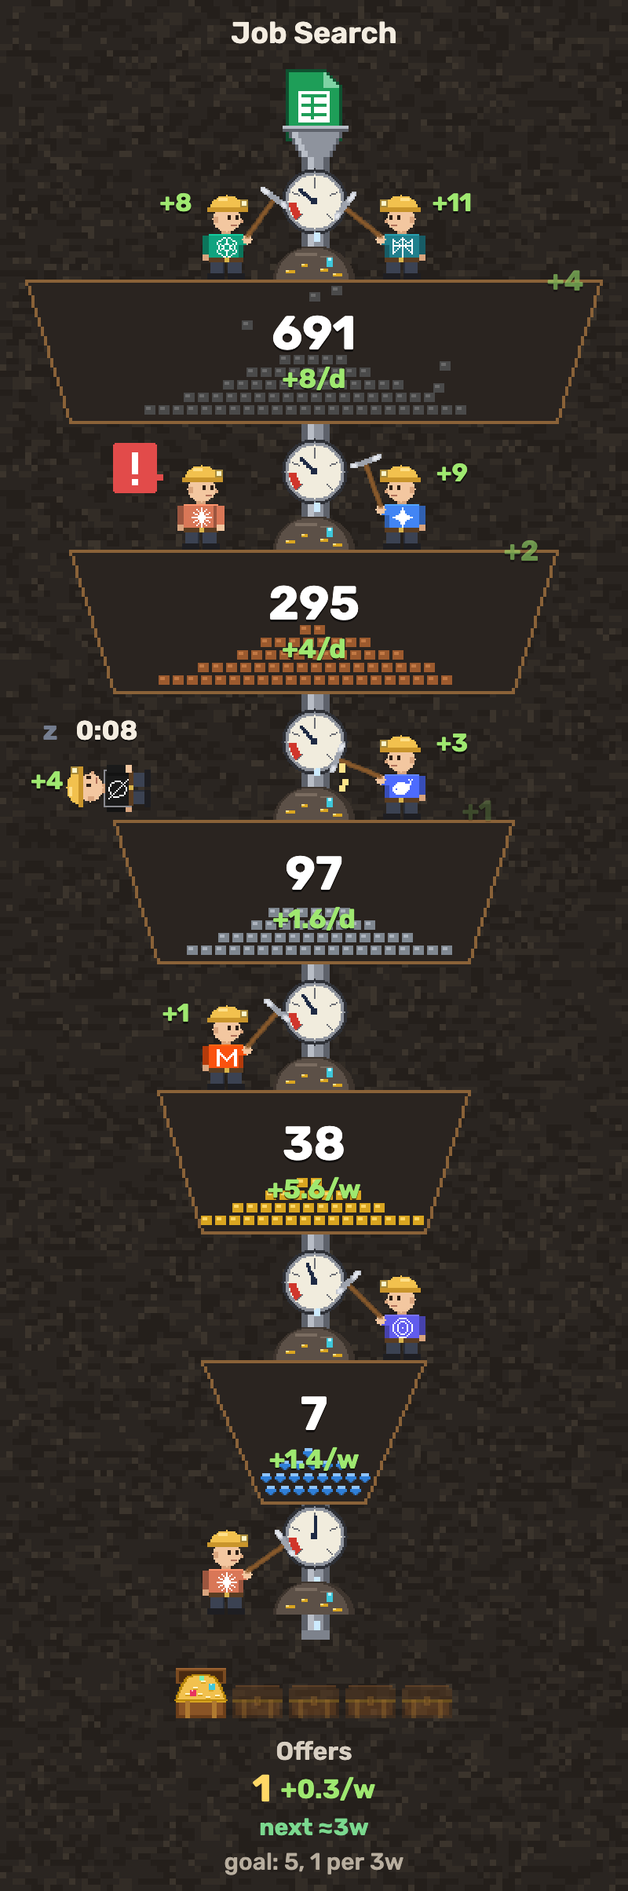
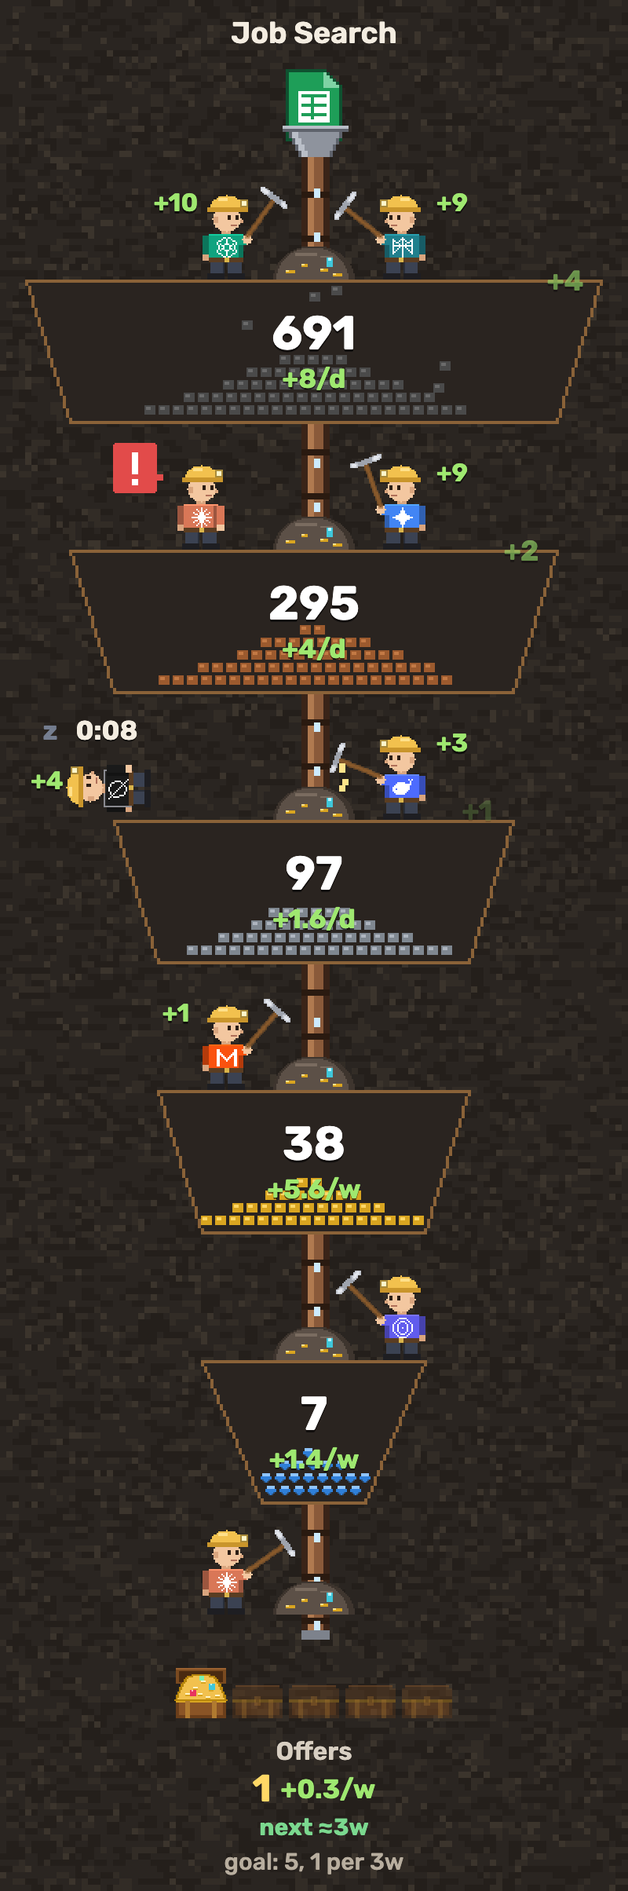
No gauges on the board, the landing page or in the docs; pipes in each theme's material (rusty iron, glass, hose, ribbon pink, cable with lights, brass); pictures redrawn

diff --git a/src/i18n.js b/src/i18n.js
@@ -6,9 +6,9 @@
 // Static pages mark text with data-i18n="key" (text), data-i18n-html="key" (text with links) and
 // data-i18n-attr="placeholder:key; title:key"; scripts call t(key, …args).
 
-import es from './lang/es.js?v=fc689838';
-import vi from './lang/vi.js?v=fc689838';
-import ja from './lang/ja.js?v=fc689838';
+import es from './lang/es.js?v=67d628d5';
+import vi from './lang/vi.js?v=67d628d5';
+import ja from './lang/ja.js?v=67d628d5';
 
 export const LANGS = { en: 'English', ru: 'Русский', es: 'Español', zh: '中文', ja: '日本語', th: 'ไทย', vi: 'Tiếng Việt' };
 export const SHORT = { en: 'EN', ru: 'RU', es: 'ES', zh: '中文', ja: 'JA', th: 'ไทย', vi: 'VI' };
@@ -80,7 +80,7 @@ const STRINGS = {
     'ทุกเป้าหมายคือกรวย: งาน คู่ชีวิต งานวิจัย ผู้ติดตาม เอเจนต์ของคุณขยับมันทีละขั้น เห็นการไหล ผลลัพธ์ถัดไป และใครกำลังรอคุณอยู่'),
   'home.demo': L('Open the live demo', 'Открыть живое демо', '打开实时演示', 'เปิดเดโมสด'),
   'home.connect': L('Connect your agents', 'Подключить агентов', '连接你的智能体', 'เชื่อมต่อเอเจนต์ของคุณ'),
-  'home.shotAlt': L('One goal funnel with labels: the sheet, tanks, a question, agents asleep and at work, a gauge, results and the prediction', 'Одна воронка цели с подписями: таблица, баки, вопрос, агенты спят и работают, манометр, результаты и прогноз', '一个带标注的目标漏斗：表格、储罐、问题、睡眠和工作中的智能体、仪表、成果和预测', 'กรวยเป้าหมายหนึ่งอันพร้อมคำอธิบาย: ตาราง ถัง คำถาม เอเจนต์ที่หลับและทำงาน มาตรวัด ผลลัพธ์ และการคาดการณ์'),
+  'home.shotAlt': L('One goal funnel with labels: the sheet, tanks, a question, agents asleep and at work, results and the prediction', 'Одна воронка цели с подписями: таблица, баки, вопрос, агенты спят и работают, результаты и прогноз', '一个带标注的目标漏斗：表格、储罐、问题、睡眠和工作中的智能体、成果和预测', 'กรวยเป้าหมายหนึ่งอันพร้อมคำอธิบาย: ตาราง ถัง คำถาม เอเจนต์ที่หลับและทำงาน ผลลัพธ์ และการคาดการณ์'),
   'home.p1h': L('Goals as funnels', 'Цели как воронки', '目标即漏斗', 'เป้าหมายคือกรวย'),
   'home.p1': L('Not tasks — stages. How much is at each step, how fast it flows, when the next result is due.', 'Не задачи, а этапы. Сколько на каждом шаге, как быстро движется, когда следующий результат.', '不是任务，而是阶段。每一步有多少、流动多快、下一个成果何时到来。', 'ไม่ใช่งาน แต่เป็นขั้นตอน แต่ละขั้นมีเท่าไร ไหลเร็วแค่ไหน และผลลัพธ์ถัดไปจะมาเมื่อไร'),
   'home.p2h': L('Your agents, at work', 'Ваши агенты за работой', '你的智能体正在工作', 'เอเจนต์ของคุณกำลังทำงาน'),
@@ -99,8 +99,6 @@ const STRINGS = {
   'guide.asleep': L('Resting until its next run; the timer counts down.', 'Отдыхает до следующего запуска; таймер отсчитывает время.', '休息到下次运行；计时器在倒数。', 'พักจนถึงรอบถัดไป ตัวจับเวลากำลังนับถอยหลัง'),
   'guide.work.h': L('Agent at work', 'Агент за работой', '工作中的智能体', 'เอเจนต์กำลังทำงาน'),
   'guide.work': L('+N is what its current run added.', '+N — сколько добавил текущий запуск.', '+N 是本次运行新增的数量。', '+N คือสิ่งที่รอบปัจจุบันเพิ่มเข้ามา'),
-  'guide.gauge.h': L('Gauge', 'Манометр', '仪表', 'มาตรวัด'),
-  'guide.gauge': L('On pace for the goal? Straight up is just in time; red on the left is far behind.', 'Успеваете к цели? Стрелка вверх — точно в срок, красное слева — сильно отстаёте.', '能按时达成目标吗？指针朝上表示刚好赶上，左侧红区表示严重落后。', 'ทันเป้าหมายไหม? เข็มชี้ขึ้นคือทันพอดี สีแดงทางซ้ายคือช้ามาก'),
   'guide.results.h': L('Results', 'Результаты', '成果', 'ผลลัพธ์'),
   'guide.results': L('One per result the goal needs; filled ones are done.', 'По одному на каждый нужный результат; заполненные — уже получены.', '目标需要的每个成果一个；已填满的表示已完成。', 'หนึ่งช่องต่อผลลัพธ์ที่เป้าหมายต้องการ ช่องที่เต็มคือได้แล้ว'),
   'guide.prediction.h': L('Prediction', 'Прогноз', '预测', 'การคาดการณ์'),

diff --git a/src/scene.js b/src/scene.js
@@ -1,7 +1,7 @@
-import { agentInfo, plural } from './data.js?v=fc689838';
-import { drawStanding, drawLying, drawPickaxe, drawShears, drawBeaker, drawBow, drawArrow, drawLaptop, drawStamp, drawBubble, BUBBLE_STEP, line, P, MINER_H } from './sprites.js?v=fc689838';
-import { themeOf } from './themes.js?v=fc689838';
-import { t as tr, lang, fmtDuration } from './i18n.js?v=fc689838';
+import { agentInfo, plural } from './data.js?v=67d628d5';
+import { drawStanding, drawLying, drawPickaxe, drawShears, drawBeaker, drawBow, drawArrow, drawLaptop, drawStamp, drawBubble, BUBBLE_STEP, line, P, MINER_H } from './sprites.js?v=67d628d5';
+import { themeOf } from './themes.js?v=67d628d5';
+import { t as tr, lang, fmtDuration } from './i18n.js?v=67d628d5';
 
 // Logical (pixel-art) layout of one funnel column. Funnels have 2-5 tanks with a mining zone above
 // each tank and one more below the last (the output zone, where results come out into flasks).
@@ -37,7 +37,6 @@ const outPlateTop = k => plateTop(k) - OUT_LIFT;
 // Below the last tank there is no tank to sit on: gauge and plate move up together (the same gap
 // between them as everywhere) so the pipe runs on past the plate to where results drip out.
 const OUT_LIFT = 5;
-const gaugeY = (k, out) => zoneTop(k) + 4 + GAUGE_R + 2 - (out ? OUT_LIFT : 0);
 export const DAY_SECONDS = 2;
 const PER_ROW = 10;  // result items per row under a funnel, the same for every theme
 // As on the page: Vietnamese needs Be Vietnam Pro (Rubik has no Vietnamese letters), Japanese takes
@@ -164,14 +163,13 @@ export class Scene {
         // No room around a zone: agents work in the open, on top of the tank below.
         const y = zoneTop(k);
         // The pipe runs from the tank above (or the hopper on top) down to the tank below.
-        this.pipe(c, cx, k < 0 ? y + 4 : y, y + ZH);
-        // On top: a small funnel at the very top of the column and a short pipe down to the gauge.
+        this.pipe(c, cx, k < 0 ? y + 4 : y, y + ZH, theme);
+        // On top: a small funnel at the very top of the column and a short pipe down from it.
         if (k < 0) {
-          this.pipe(c, cx, y + 1, y + 4);
+          this.pipe(c, cx, y + 1, y + 4, theme);
           if (f.source_url) this.sheets(c, cx, y - 26);
           this.hopper(c, cx, y - 8, y + 1);
         }
-        gaugeRim(c, cx, gaugeY(k, k === n - 1));
       }
       f.stages.forEach((s, j) => {
         // A thin outline: full top and bottom rows, one pixel down each side; inside, the theme's
@@ -233,10 +231,13 @@ export class Scene {
     return { x: cx - 12, y, w: 26, h: 34, type: 'source', url: this.funnels[fi].source_url };
   }
 
-  pipe(c, cx, y0, y1) {
-    c.fillStyle = '#5E626B'; c.fillRect(cx - 4, y0, 9, y1 - y0);
-    c.fillStyle = '#8E939D'; c.fillRect(cx - 2, y0, 5, y1 - y0);
-    c.fillStyle = '#B9BEC7'; c.fillRect(cx - 2, y0, 2, y1 - y0);
+  // The pipe in the theme's own material (iron, glass, hose, cable…), with its joints or lights.
+  pipe(c, cx, y0, y1, theme) {
+    const [edge, body, shine, band] = theme?.pipe || ['#5E626B', '#8E939D', '#B9BEC7', null];
+    c.fillStyle = edge; c.fillRect(cx - 4, y0, 9, y1 - y0);
+    c.fillStyle = body; c.fillRect(cx - 2, y0, 5, y1 - y0);
+    c.fillStyle = shine; c.fillRect(cx - 2, y0, 2, y1 - y0);
+    if (band) for (let y = y0 + 8; y < y1 - 3; y += 14) { c.fillStyle = band; c.fillRect(cx - 4, y, 9, theme.bandH || 2); }
   }
 
   update(dt) {
@@ -307,10 +308,9 @@ export class Scene {
       if (f.source_url) this.hits.push(this.sourceHit(fi));
       const cx = this.cx(fi), n = f.stages.length, theme = themeOf(f);
       for (let k = -1; k < n; k++) {
-        const y = zoneTop(k), fl = f.flows[k + 1], gy = gaugeY(k, k === n - 1);
+        const y = zoneTop(k), fl = f.flows[k + 1];
         // Below the last tank the drops run a little past the pipe's end, dripping out of it.
         this.drops(c, cx, y + 4, y + ZH + (k === n - 1 ? 9 : 0), fl, fi * 3 + k);
-        gaugeFace(c, cx, gy, project(f).zones[k + 1], Math.sin(t * 3 + fi + k) * 0.015);
         // The plate under each gauge is what the agents work on; only the output zone's has text
         // on it: when the next result is due.
         theme.plate(c, cx - 13, k === n - 1 ? outPlateTop(k) : plateTop(k), 26, PLATE_H);

diff --git a/src/themes.js b/src/themes.js
@@ -486,12 +486,12 @@ const pieceMoney = {
 };
 
 export const THEMES = {
-  mine: { piece: pieceMine, tankBg: '#2A2420', emptyAlpha: 0.3, backdrop: backMine, frame: '#8A6238', zone: zoneMine, tank: tankMine, plate: plateMine, result: resultTreasure, outfit: 'helmet', tool: 'pickaxe', spark: '#FFE38A', accent: '#FFD866' },
-  lab: { tankBg: '#122233', emptyAlpha: 0.3, backdrop: backLab, frame: '#9FD3FF', zone: zoneLab, tank: tankLab, plate: plateLab, result: resultFlask, outfit: 'goggles', tool: 'beaker', spark: '#B585F2', accent: '#C4A3F5' },
-  garden: { piece: pieceGarden, tankBg: '#16240F', emptyAlpha: 0.3, backdrop: backGarden, frame: '#7A5232', tank: tankGarden, plate: plateGarden, result: resultPot, outfit: 'straw', tool: 'shears', spark: '#8FD46A', accent: '#F28AB8' },
-  love: { piece: pieceLove, tankBg: '#3A1A30', backdrop: backLove, frame: '#F28AB8', zone: zoneLove, tank: tankLove, plate: plateLove, result: resultHeart, outfit: 'wings', tool: 'bow', spark: '#F28AB8', accent: '#F28AB8' },
-  code: { piece: pieceCode, tankBg: '#06100A', emptyAlpha: 0.3, backdrop: backCode, frame: '#3CF27A', zone: zoneCode, tank: tankCode, plate: plateCode, result: resultChip, outfit: 'hoodie', tool: 'laptop', spark: '#3CF27A', accent: '#7CF0B0' },
-  money: { piece: pieceMoney, tankBg: '#14201A', backdrop: backMoney, frame: '#D9A520', zone: zoneMoney, tank: tankMoney, plate: plateMoney, result: resultBag, outfit: 'suit', tool: 'stamp', spark: '#FFD866', accent: '#9FE870' },
+  mine: { pipe: ['#3A2418', '#8A5A3A', '#B07A50', '#2A1A10'], piece: pieceMine, tankBg: '#2A2420', emptyAlpha: 0.3, backdrop: backMine, frame: '#8A6238', zone: zoneMine, tank: tankMine, plate: plateMine, result: resultTreasure, outfit: 'helmet', tool: 'pickaxe', spark: '#FFE38A', accent: '#FFD866' },
+  lab: { pipe: ['#7FB8D8', '#1E3A50', '#E8F6FF', null], tankBg: '#122233', emptyAlpha: 0.3, backdrop: backLab, frame: '#9FD3FF', zone: zoneLab, tank: tankLab, plate: plateLab, result: resultFlask, outfit: 'goggles', tool: 'beaker', spark: '#B585F2', accent: '#C4A3F5' },
+  garden: { pipe: ['#2E5A22', '#4E8A3A', '#7CC05A', '#24481A'], piece: pieceGarden, tankBg: '#16240F', emptyAlpha: 0.3, backdrop: backGarden, frame: '#7A5232', tank: tankGarden, plate: plateGarden, result: resultPot, outfit: 'straw', tool: 'shears', spark: '#8FD46A', accent: '#F28AB8' },
+  love: { pipe: ['#8A2A55', '#E06A9A', '#F7B8D0', '#D9A520'], piece: pieceLove, tankBg: '#3A1A30', backdrop: backLove, frame: '#F28AB8', zone: zoneLove, tank: tankLove, plate: plateLove, result: resultHeart, outfit: 'wings', tool: 'bow', spark: '#F28AB8', accent: '#F28AB8' },
+  code: { pipe: ['#0A140E', '#1E2A22', '#3A4A3E', '#3CF27A'], bandH: 1, piece: pieceCode, tankBg: '#06100A', emptyAlpha: 0.3, backdrop: backCode, frame: '#3CF27A', zone: zoneCode, tank: tankCode, plate: plateCode, result: resultChip, outfit: 'hoodie', tool: 'laptop', spark: '#3CF27A', accent: '#7CF0B0' },
+  money: { pipe: ['#7A5A10', '#C8961E', '#F2D068', '#5A400A'], piece: pieceMoney, tankBg: '#14201A', backdrop: backMoney, frame: '#D9A520', zone: zoneMoney, tank: tankMoney, plate: plateMoney, result: resultBag, outfit: 'suit', tool: 'stamp', spark: '#FFD866', accent: '#9FE870' },
 };
 
 export const themeOf = f => THEMES[f.theme] || THEMES.mine;

diff --git a/tools/render-docs.js b/tools/render-docs.js
@@ -1,10 +1,10 @@
 // Renders the README pictures (agents sheet, theme samples, the board) and the link preview card from the same drawing code as
 // the dashboard and saves them through serve.py: open http://localhost:5173/tools/render-docs.html
 // (always in English: the page adds ?lang=en to itself).
-import { AGENTS, FUNNELS } from '../src/data.js?v=fc689838';
-import { Scene, CW, H } from '../src/scene.js?v=fc689838';
-import { THEMES } from '../src/themes.js?v=fc689838';
-import { drawStanding, drawPickaxe, drawShears, drawBeaker, drawBow, drawArrow, drawLaptop, drawStamp } from '../src/sprites.js?v=fc689838';
+import { AGENTS, FUNNELS } from '../src/data.js?v=67d628d5';
+import { Scene, CW, H } from '../src/scene.js?v=67d628d5';
+import { THEMES } from '../src/themes.js?v=67d628d5';
+import { drawStanding, drawPickaxe, drawShears, drawBeaker, drawBow, drawArrow, drawLaptop, drawStamp } from '../src/sprites.js?v=67d628d5';
 
 const FONT = 'Rubik, system-ui, sans-serif';
 
@@ -53,8 +53,11 @@ function themesSheet() {
     const th = THEMES[name], ox = (i % cols) * W, oy = Math.floor(i / cols) * Hh, r = rng(7 + i);
     g.setTransform(K, 0, 0, K, ox * K, oy * K);
     th.backdrop(g, 0, W, Hh, r);
-    g.fillStyle = '#5E626B'; g.fillRect(86, 6, 9, 48);
-    g.fillStyle = '#8E939D'; g.fillRect(88, 6, 5, 48);
+    const [pe, pb, ps, pband] = th.pipe;
+    g.fillStyle = pe; g.fillRect(86, 6, 9, 48);
+    g.fillStyle = pb; g.fillRect(88, 6, 5, 48);
+    g.fillStyle = ps; g.fillRect(88, 6, 2, 48);
+    if (pband) for (let y = 14; y < 51; y += 14) { g.fillStyle = pband; g.fillRect(86, y, 9, th.bandH || 2); }
     th.plate(g, 77, 43, 26, 11);
     const id = agentsFor[i % agentsFor.length], ax = 57, ay = 26, hx = ax + 16.5, hy = ay + 15;
     drawStanding(g, ax, ay, id, AGENTS[id].color, -1, false, true, th.outfit);
@@ -190,7 +193,7 @@ function funnelGuide({ labels = true } = {}) {
   const s0 = stage(0), last = stage(n - 1);
   const ask = agent('claude', 'ask'), sleep = scene.spot(agent('grok', 'sleep'), 'rest'), work = scene.spot(agent('mistral', 'work'), 'work');
   const src0 = scene.hits.find(h => h.type === 'source');
-  const gauge = stage(3), resultsY = last.y + last.h + 40 + 9;
+  const resultsY = last.y + last.h + 40 + 9;
   // Each arrow ends on the left edge of what it explains.
   const notes = [
     [P(src0.x + 3, src0.y + 14), 'Sheet', 'The table where the agents keep track of everything.'],
@@ -198,7 +201,6 @@ function funnelGuide({ labels = true } = {}) {
     [P(ask.bubble.x, ask.bubble.y + 11), 'Question', 'An agent waits for your answer. Click it to reply.'],
     [P(sleep.x - 1, sleep.y + 1), 'Asleep', 'Resting until its next run; the timer counts down.'],
     [P(work.x + 1, work.y + 20), 'Agent at work', '+N is what its current run added.'],
-    [P(cx - 9, gauge.y + gauge.h + 15), 'Gauge', 'On pace for the goal? Straight up is just in time; red on the left is far behind.'],
     [P(cx - 45, resultsY + 8), 'Results', 'One per result the goal needs; filled ones are done.'],
     [P(cx - 23, resultsY + 54), 'Prediction', 'When the next result is due at the current pace.'],
   ];

diff --git a/supabase/functions/mcp/index.ts b/supabase/functions/mcp/index.ts
@@ -178,8 +178,8 @@ function server(db: Db, caller: Caller) {
     title: 'Report counts',
     description: 'Counts after your work, cumulative: for each stage, how many items have ever reached it (an item that moved on to the next stage still counts here), and optionally the results so far. ' +
       'The dashboard takes the conversion between stages from these counts (next stage ÷ this one; 30% while one of them is 0), so keep them cumulative. ' +
-      'The dashboard computes flows, tank fill and gauges from these reports (automatic). Optionally set them yourself (manual): ' +
-      'fill_percent and flow_per_day per stage, pace per zone; null switches that one back to automatic.',
+      'The dashboard computes flows, tank fill and the pace of the results from these reports (automatic). Optionally set them yourself (manual): ' +
+      'fill_percent and flow_per_day per stage, pace for the output zone; null switches that one back to automatic.',
     inputSchema: req({
       funnel_id: funnelId,
       counts: z.record(z.string(), z.number().int().nonnegative()).default({}).describe('{ stage_key: count }, cumulative: every item that ever reached the stage'),
@@ -187,7 +187,7 @@ function server(db: Db, caller: Caller) {
       fill_percent: z.record(z.string(), z.number().min(0).max(100).nullable()).optional()
         .describe('Manual tank fill, { stage_key: 0-100 }: how much of what this stage needs for the whole goal is there. null = automatic'),
       pace: z.record(z.string(), z.number().min(0).max(1000).nullable()).optional()
-        .describe('Manual gauge, { zone: pace } with zones as in set_agent_state ("0" above the first stage … "n" below the last). Pace against the goal: 1 = just in time (red mark), 0.5 = half the pace needed, 2 = twice. null = automatic'),
+        .describe('Manual pace of the results against the goal, { zone: pace } with zones as in set_agent_state; only the output zone ("n", below the last stage) is shown, as the colour of the next-result line. 1 = just in time, 0.5 = half the pace needed, 2 = twice. null = automatic'),
       flow_per_day: z.record(z.string(), z.number().min(0).max(1e9).nullable()).optional()
         .describe('Manual flow, the "+N/d" written on a tank: { stage_key: items added to that stage per day }, and "results" for results per day. Give it when you know the real daily rate better than the count history shows (e.g. right after you start reporting). null = automatic: the average daily growth over the last 7 days of your count reports'),
       source_url: z.string().url().regex(/^https?:\/\//).nullable().optional()

diff --git a/index.html b/index.html
@@ -23,7 +23,7 @@
   <link rel="preconnect" href="https://fonts.googleapis.com">
   <link rel="preconnect" href="https://fonts.gstatic.com" crossorigin>
   <link href="https://fonts.googleapis.com/css2?family=Rubik:wght@400;500;600;700&family=Noto+Sans+SC:wght@400;500;700&family=Noto+Sans+Thai:wght@400;500;700&family=Be+Vietnam+Pro:wght@400;500;600;700&family=Noto+Sans+JP:wght@400;500;700&display=swap" rel="stylesheet">
-  <link rel="stylesheet" href="site.css?v=fc689838">
+  <link rel="stylesheet" href="site.css?v=67d628d5">
 </head>
 <body>
   <div class="wrap">
@@ -55,7 +55,6 @@
         <div class="note" style="--x:0.18;--y:0.252"><b data-i18n="guide.question.h">Question</b><span data-i18n="guide.question">An agent waits for your answer. Click it to reply.</span></div>
         <div class="note" style="--x:0.095;--y:0.402"><b data-i18n="guide.asleep.h">Asleep</b><span data-i18n="guide.asleep">Resting until its next run; the timer counts down.</span></div>
         <div class="note" style="--x:0.315;--y:0.563"><b data-i18n="guide.work.h">Agent at work</b><span data-i18n="guide.work">+N is what its current run added.</span></div>
-        <div class="note" style="--x:0.455;--y:0.678"><b data-i18n="guide.gauge.h">Gauge</b><span data-i18n="guide.gauge">On pace for the goal? Straight up is just in time; red on the left is far behind.</span></div>
         <div class="note" style="--x:0.275;--y:0.89"><b data-i18n="guide.results.h">Results</b><span data-i18n="guide.results">One per result the goal needs; filled ones are done.</span></div>
         <div class="note" style="--x:0.385;--y:0.967"><b data-i18n="guide.prediction.h">Prediction</b><span data-i18n="guide.prediction">When the next result is due at the current pace.</span></div>
       </div>
@@ -81,6 +80,6 @@
       <span><a href="deck/" target="_blank" rel="noopener" data-i18n="footer.deck">Pitch deck</a> · <a href="privacy/" data-i18n="footer.privacy">Privacy</a> · <a href="contact/" data-i18n="footer.contact">Contact</a></span>
     </footer>
   </div>
-  <script type="module" src="src/nav.js?v=fc689838"></script>
+  <script type="module" src="src/nav.js?v=67d628d5"></script>
 </body>
 </html>

diff --git a/app/index.html b/app/index.html
@@ -12,7 +12,7 @@
   <link rel="preconnect" href="https://fonts.googleapis.com">
   <link rel="preconnect" href="https://fonts.gstatic.com" crossorigin>
   <link href="https://fonts.googleapis.com/css2?family=Rubik:wght@400;500;600;700&family=Noto+Sans+SC:wght@400;500;700&family=Noto+Sans+Thai:wght@400;500;700&family=Be+Vietnam+Pro:wght@400;500;600;700&family=Noto+Sans+JP:wght@400;500;700&display=swap" rel="stylesheet">
-  <link rel="stylesheet" href="../dashboard.css?v=fc689838">
+  <link rel="stylesheet" href="../dashboard.css?v=67d628d5">
 </head>
 <body>
   <nav class="sitebar">
@@ -38,11 +38,11 @@
   <div id="pop" hidden></div>
 
   <script type="module">
-    import { supabase } from '../src/auth.js?v=fc689838';
-    import { setUpConnect } from '../src/connect.js?v=fc689838';
-    import { loadFunnels, answer, watch, runs } from '../src/live.js?v=fc689838';
-    import { mountDashboard } from '../src/dashboard.js?v=fc689838';
-    import { t, fmtDuration } from '../src/i18n.js?v=fc689838';
+    import { supabase } from '../src/auth.js?v=67d628d5';
+    import { setUpConnect } from '../src/connect.js?v=67d628d5';
+    import { loadFunnels, answer, watch, runs } from '../src/live.js?v=67d628d5';
+    import { mountDashboard } from '../src/dashboard.js?v=67d628d5';
+    import { t, fmtDuration } from '../src/i18n.js?v=67d628d5';
 
     // Coming back from an email link, supabase-js reads the session from the URL.
     const { data: { session } } = await supabase.auth.getSession();
@@ -92,6 +92,6 @@
       document.addEventListener('focusout', () => { if (pending) refresh(); });
     }
   </script>
-  <script type="module" src="../src/nav.js?v=fc689838"></script>
+  <script type="module" src="../src/nav.js?v=67d628d5"></script>
 </body>
 </html>

diff --git a/src/lang/vi.js b/src/lang/vi.js
@@ -19,7 +19,7 @@ export default {
   'home.lead': 'Mỗi mục tiêu là một phễu: một công việc, một người bạn đời, một bài báo, một lượng khán giả. Các tác tử đẩy nó đi từng giai đoạn. Bạn thấy dòng chảy, kết quả tiếp theo và ai đang chờ bạn trả lời.',
   'home.demo': 'Mở bản demo trực tiếp',
   'home.connect': 'Kết nối tác tử của bạn',
-  'home.shotAlt': 'Một phễu mục tiêu có chú thích: bảng tính, các bể, câu hỏi, tác tử đang ngủ và đang làm, đồng hồ đo, kết quả và dự báo',
+  'home.shotAlt': 'Một phễu mục tiêu có chú thích: bảng tính, các bể, câu hỏi, tác tử đang ngủ và đang làm, kết quả và dự báo',
   'home.p1h': 'Mục tiêu là phễu',
   'home.p1': 'Không phải nhiệm vụ mà là giai đoạn. Mỗi bước có bao nhiêu, chảy nhanh thế nào, khi nào có kết quả tiếp theo.',
   'home.p2h': 'Tác tử của bạn đang làm việc',
@@ -37,8 +37,6 @@ export default {
   'guide.asleep': 'Nghỉ đến lần chạy tiếp theo; đồng hồ đang đếm ngược.',
   'guide.work.h': 'Tác tử đang làm việc',
   'guide.work': '+N là số lần chạy hiện tại đã thêm.',
-  'guide.gauge.h': 'Đồng hồ đo',
-  'guide.gauge': 'Có kịp mục tiêu không? Kim chỉ thẳng lên là vừa kịp; vùng đỏ bên trái là chậm nhiều.',
   'guide.results.h': 'Kết quả',
   'guide.results': 'Mỗi kết quả mục tiêu cần là một ô; ô đầy là đã đạt.',
   'guide.prediction.h': 'Dự báo',

diff --git a/src/lang/ja.js b/src/lang/ja.js
@@ -19,7 +19,7 @@ export default {
   'home.lead': 'どの目標もファネルです。仕事、パートナー、論文、オーディエンス。エージェントが段階ごとに前へ進めます。流れ、次の成果、そしてあなたの返事を待っているのは誰かが見えます。',
   'home.demo': 'ライブデモを開く',
   'home.connect': 'エージェントを接続',
-  'home.shotAlt': 'ラベル付きの目標ファネル：シート、タンク、質問、眠っているエージェントと作業中のエージェント、ゲージ、成果、予測',
+  'home.shotAlt': 'ラベル付きの目標ファネル：シート、タンク、質問、眠っているエージェントと作業中のエージェント、成果、予測',
   'home.p1h': '目標をファネルに',
   'home.p1': 'タスクではなく段階。各ステップにどれだけあり、どれだけ速く流れ、次の成果はいつか。',
   'home.p2h': '働くエージェント',
@@ -37,8 +37,6 @@ export default {
   'guide.asleep': '次の実行まで休憩中。タイマーがカウントダウンします。',
   'guide.work.h': '作業中のエージェント',
   'guide.work': '+N は今回の実行で増えた数。',
-  'guide.gauge.h': 'ゲージ',
-  'guide.gauge': '目標に間に合う？真上がちょうど間に合うライン、左の赤は大きな遅れ。',
   'guide.results.h': '成果',
   'guide.results': '目標に必要な成果ごとに1つ。埋まっているものは達成済み。',
   'guide.prediction.h': '予測',

diff --git a/login/index.html b/login/index.html
@@ -12,7 +12,7 @@
   <link rel="preconnect" href="https://fonts.googleapis.com">
   <link rel="preconnect" href="https://fonts.gstatic.com" crossorigin>
   <link href="https://fonts.googleapis.com/css2?family=Rubik:wght@400;500;600;700&family=Noto+Sans+SC:wght@400;500;700&family=Noto+Sans+Thai:wght@400;500;700&family=Be+Vietnam+Pro:wght@400;500;600;700&family=Noto+Sans+JP:wght@400;500;700&display=swap" rel="stylesheet">
-  <link rel="stylesheet" href="../site.css?v=fc689838">
+  <link rel="stylesheet" href="../site.css?v=67d628d5">
 </head>
 <body>
   <div class="wrap">
@@ -44,9 +44,9 @@
   </div>
 
   <script type="module">
-    import { supabase, afterSignIn } from '../src/auth.js?v=fc689838';
-    import { GOOGLE_CLIENT_ID } from '../src/config.js?v=fc689838';
-    import { t, lang } from '../src/i18n.js?v=fc689838';
+    import { supabase, afterSignIn } from '../src/auth.js?v=67d628d5';
+    import { GOOGLE_CLIENT_ID } from '../src/config.js?v=67d628d5';
+    import { t, lang } from '../src/i18n.js?v=67d628d5';
 
     const msg = document.getElementById('msg');
     const say = (text, kind = '') => { msg.textContent = text; msg.className = 'msg ' + kind; };
@@ -120,6 +120,6 @@
       else say(t('login.sendFailed'), 'error');
     });
   </script>
-  <script type="module" src="../src/nav.js?v=fc689838"></script>
+  <script type="module" src="../src/nav.js?v=67d628d5"></script>
 </body>
 </html>

diff --git a/src/lang/es.js b/src/lang/es.js
@@ -18,7 +18,7 @@ export default {
   'home.lead': 'Cada meta es un embudo: un trabajo, una pareja, un artículo, una audiencia. Tus agentes la mueven etapa por etapa. Ve el flujo, el próximo resultado y quién espera tu respuesta.',
   'home.demo': 'Abrir la demo en vivo',
   'home.connect': 'Conecta tus agentes',
-  'home.shotAlt': 'Un embudo de meta con etiquetas: la hoja, los tanques, una pregunta, agentes dormidos y trabajando, un indicador, los resultados y la predicción',
+  'home.shotAlt': 'Un embudo de meta con etiquetas: la hoja, los tanques, una pregunta, agentes dormidos y trabajando, los resultados y la predicción',
   'home.p1h': 'Metas como embudos',
   'home.p1': 'No tareas, sino etapas. Cuánto hay en cada paso, qué tan rápido fluye y cuándo llega el próximo resultado.',
   'home.p2h': 'Tus agentes, trabajando',
@@ -36,8 +36,6 @@ export default {
   'guide.asleep': 'Descansa hasta su próxima ejecución; el temporizador cuenta hacia atrás.',
   'guide.work.h': 'Agente trabajando',
   'guide.work': '+N es lo que añadió su ejecución actual.',
-  'guide.gauge.h': 'Indicador',
-  'guide.gauge': '¿Vas al ritmo de la meta? Arriba es justo a tiempo; el rojo a la izquierda, muy atrasado.',
   'guide.results.h': 'Resultados',
   'guide.results': 'Uno por cada resultado que necesita la meta; los llenos ya están logrados.',
   'guide.prediction.h': 'Predicción',

diff --git a/oauth/consent/index.html b/oauth/consent/index.html
@@ -13,7 +13,7 @@
   <link rel="preconnect" href="https://fonts.googleapis.com">
   <link rel="preconnect" href="https://fonts.gstatic.com" crossorigin>
   <link href="https://fonts.googleapis.com/css2?family=Rubik:wght@400;500;600;700&family=Noto+Sans+SC:wght@400;500;700&family=Noto+Sans+Thai:wght@400;500;700&family=Be+Vietnam+Pro:wght@400;500;600;700&family=Noto+Sans+JP:wght@400;500;700&display=swap" rel="stylesheet">
-  <link rel="stylesheet" href="../../site.css?v=fc689838">
+  <link rel="stylesheet" href="../../site.css?v=67d628d5">
 </head>
 <body>
   <div class="wrap">
@@ -29,8 +29,8 @@
   <script type="module">
     // OAuth consent: Supabase Auth sends the person here with ?authorization_id= when an agent
     // (Claude, ChatGPT, Cursor…) asks to connect to their GoalAgents.
-    import { supabase, siteUrl } from '../../src/auth.js?v=fc689838';
-    import { t } from '../../src/i18n.js?v=fc689838';
+    import { supabase, siteUrl } from '../../src/auth.js?v=67d628d5';
+    import { t } from '../../src/i18n.js?v=67d628d5';
 
     const card = document.getElementById('card');
     const esc = s => String(s ?? '').replace(/[&<>"']/g, c => `&#${c.charCodeAt(0)};`);
